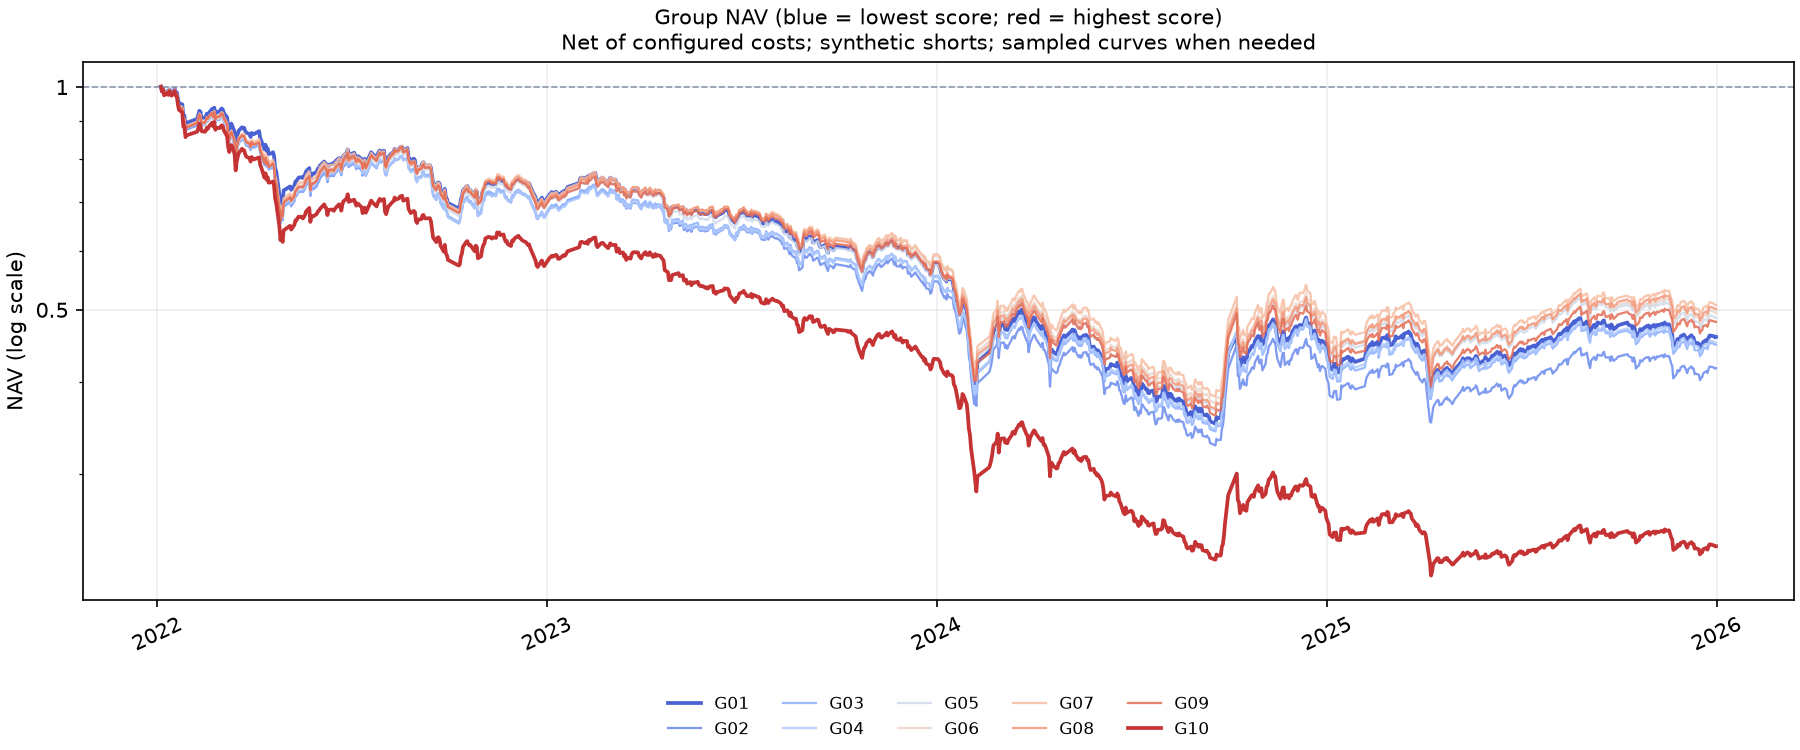
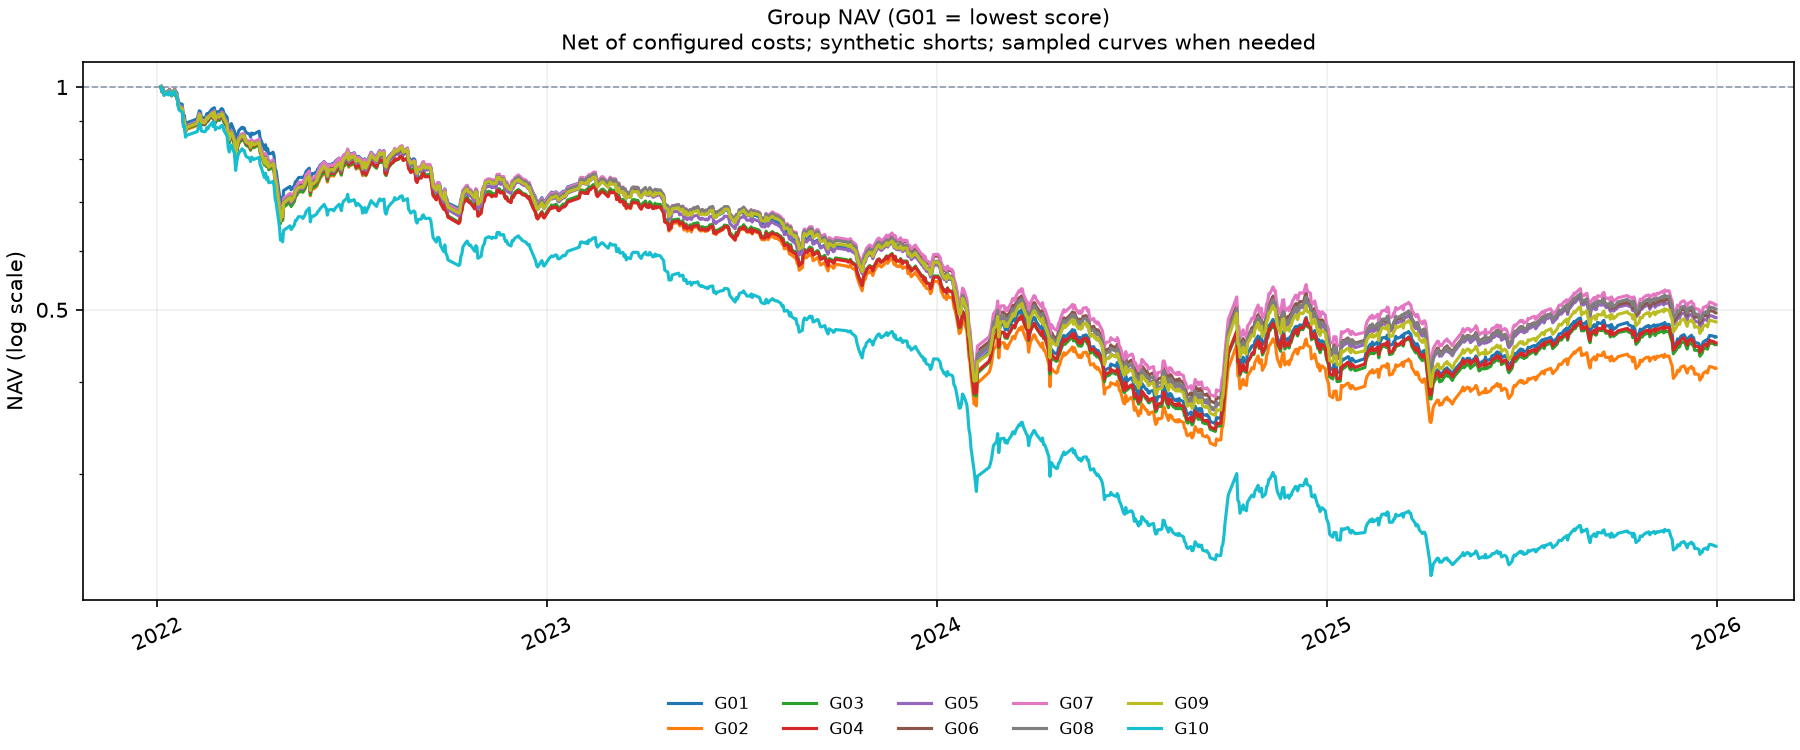
fix: restore original chart colors with logarithmic axes

diff --git a/qsim/report.py b/qsim/report.py
@@ -41,8 +41,6 @@ def plot_results(result,directory):
     curve['date']=pd.to_datetime(curve['date'])
     diag=sampled(result['diagnostics'],limit,columns=['timestamp','ic','rank_ic'])
     caption='Net of configured costs; synthetic shorts; sampled curves when needed'
-    colors=plt.get_cmap('coolwarm')(np.linspace(.05,.95,len(groups)))
-    group_colors=dict(zip(groups.book,colors))
     def nav_axis(ax,values):
         values=np.asarray(values,dtype=float)
         if np.any(np.isfinite(values)&(values<=0)):
@@ -59,7 +57,7 @@ def plot_results(result,directory):
     def group_bars(ax,values):
         values=np.asarray(values,dtype=float)
         ax.set_yscale('symlog',linthresh=.01,linscale=1)
-        bars=ax.bar(np.arange(len(groups)),values,color=colors,width=.72)
+        bars=ax.bar(np.arange(len(groups)),values,width=.72)
         ax.axhline(0,color='#475569',lw=.9)
         ax.set_ylabel('Return (symlog; linear within ±1%)')
         ax.margins(y=.18)
@@ -83,18 +81,17 @@ def plot_results(result,directory):
         fig.savefig(directory/name,dpi=150);plt.close(fig)
     ls=curve.loc[curve.book.eq('LS')]
     def ls_line(ax):
-        ax.plot(ls.date,ls.net,color='#334155',lw=1.6)
+        ax.plot(ls.date,ls.net)
         nav_axis(ax,ls.net)
     save('long_short_nav.png','Long-short NAV (initial = 1)',ls_line)
     initial=float(ls.previous_equity.iloc[0])
     save('long_short_pnl.png','Long-short cumulative PnL (CNY)',lambda ax:ax.plot(ls.date,ls.equity-initial))
     def group_lines(ax):
         for name,part in curve.loc[curve.book.str.startswith('G')].groupby('book'):
-            edge=name in (groups.book.iloc[0],groups.book.iloc[-1])
-            ax.plot(part.date,part.net,label=name,color=group_colors[name],lw=1.8 if edge else 1.1,alpha=1 if edge else .85)
+            ax.plot(part.date,part.net,label=name)
         nav_axis(ax,curve.loc[curve.book.str.startswith('G'),'net'])
         ax.legend(ncol=5,fontsize=8,loc='upper center',bbox_to_anchor=(.5,-.15),frameon=False)
-    save('group_nav.png','Group NAV (blue = lowest score; red = highest score)',group_lines)
+    save('group_nav.png','Group NAV (G01 = lowest score)',group_lines)
     save('group_returns.png','Group cumulative net returns (factor-rank order)',lambda ax:group_bars(ax,groups['return']))
     def excess(ax):
         if 'benchmark_daily' in result:

diff --git a/document/assets/README.md b/document/assets/README.md
@@ -14,8 +14,8 @@
 
 - 配置：[日频](../../configs/readme_daily_5y.toml)、[30分钟](../../configs/readme_30m_l1_4y.toml)。日频2021–2025年固定5日反转；分钟2022–2025年负向买卖一档不平衡度，均历史全A池、10组。
 - 运行ID：`readme_daily_reversal5_candidate_20261030_135734_607571_82bfa4e9`、`readme_30m_l1_4y_20261030_160015_832678_7a6fb02b`；两者均COMPLETE，分别有1／6套StatsEvery时点策略。完整统计与验证见[长区间示例](../FIVE_YEAR_EXAMPLES.md)。
-- `readme_daily_5y_*.png`、`readme_30m_l1_4y_*.png`的分组／多空净值、分组收益／超额四张图于2026-10-30从上述冻结结果重绘：净值为对数轴，收益柱为对称对数轴（±1%内线性），统一按组号渐变配色并标注柱值。原运行目录图片保留；其余三张结果图仍逐字节复制自原运行目录。没有修改净值、收益、组别顺序或裁剪年份。
-- 重绘脚本为`scripts/replot_readme_log.py`，新图和逐值／文件哈希核验保存于`/mnt/nas/qinml_cache/qsim/result/log_plots_20261030_182545_477585/`。
+- `readme_daily_5y_*.png`、`readme_30m_l1_4y_*.png`的分组／多空净值、分组收益／超额四张图于2026-10-30从上述冻结结果重绘：净值为对数轴，收益柱为对称对数轴（±1%内线性），按用户最新要求恢复原默认分类曲线配色及蓝色柱，并标注柱值。原运行目录图片保留；其余三张结果图仍逐字节复制自原运行目录。没有修改净值、收益、组别顺序或裁剪年份。
+- 重绘脚本为`scripts/replot_readme_log.py`，恢复原配色后的新图和逐值／文件哈希核验保存于`/mnt/nas/qinml_cache/qsim/result/log_plots_20261030_183802_883020/`；此前渐变配色版本保留于`log_plots_20261030_182545_477585/`。
 - terminal／terminal_details为同次CLI真实stdout的上／下半摘要排版截图；标题显示可复现的公开配置命令，数值保持原样。原始日志与临时HTML留NAS。
 - 原组合取负后的日频实跑仍亏损，随后固定测试5日反转，保留相同日期／池／费用；当前日频+30.06%，负向分钟−86.67%（原正向−64.01%），展示实际结果。
 - 旧`readme_30m_5y_*.png`及旧价量配置保留为历史材料，当前README不再引用它们。原始运行记录与本次明细见开发交接。

diff --git a/README.md b/README.md
@@ -364,7 +364,7 @@ python -m qsim --config configs/readme_30m_l1_4y.toml
 
 分组曲线和柱状图用于观察分层差异与单调性，不要求结果一定单调。组间持仓可能因容量、停牌、T+1等约束偏离当期目标；组别净值不是无成本的前瞻收益均值。示例仍显式允许未知ST，并使用合成空头。
 
-分组与多空净值使用对数纵轴；分组收益和超额柱状图使用对称对数纵轴（±1%以内为线性），保留负值、零点和实际百分比标签。颜色按因子排名从蓝色G01渐变到红色G10，始终按组号排列，不按回测收益重排。坐标变换不改变收益或组间排序；若净值出现非正值，改用明确标注的对称对数轴保留该记录。
+分组与多空净值使用对数纵轴；分组收益和超额柱状图使用对称对数纵轴（±1%以内为线性），保留负值、零点和实际百分比标签。分组曲线沿用默认分类配色，柱状图沿用蓝色，始终按组号排列，不按回测收益重排。坐标变换不改变收益或组间排序；若净值出现非正值，改用明确标注的对称对数轴保留该记录。
 
 默认 `execution.fee_bps=5.0`，买卖各按实际成交额收取0.05%；卖方附加费、滑点和年化借券费默认均为0。零费用可用于单独的因子研究对照，应明确标注并重新回测；本页主结果保留配置费用。
 

diff --git a/document/FIVE_YEAR_EXAMPLES.md b/document/FIVE_YEAR_EXAMPLES.md
@@ -41,7 +41,7 @@ python -m qsim --config configs/readme_30m_l1_4y.toml
 
 ## 实际结果
 
-净值图采用对数纵轴，分组收益与超额柱状图采用对称对数纵轴（±1%内线性）及真实百分比标签。颜色按G01→G10从蓝到红，组号顺序和原始数值保持不变；这些展示调整没有改变账户或费用。
+净值图采用对数纵轴，分组收益与超额柱状图采用对称对数纵轴（±1%内线性）及真实百分比标签。分组曲线沿用默认分类配色，柱状图沿用蓝色，组号顺序和原始数值保持不变；这些展示调整没有改变账户或费用。
 
 日频为2021-01-04至2025-12-31，共1212日；分钟为2022-01-04至2025-12-31，共969日。固定证券轴均为5939，每天实际可用池随生命周期、状态和信号有效性变化。日频最少有效信号数为4106。
 

diff --git a/document/OUTPUTS.md b/document/OUTPUTS.md
@@ -182,7 +182,7 @@ Python run() 返回的小汇总是 DataFrame，大明细默认是 DiskTable。`.
 |---|---|
 | long_short_nav.png | LS 累计净值，对数纵轴，初始为1，已计配置成本 |
 | long_short_pnl.png | LS 累计金额PnL，单位元，与净值图分开 |
-| group_nav.png | 各分组净值，对数纵轴；蓝色G01最低分、红色最高组最高分 |
+| group_nav.png | 各分组净值，对数纵轴、默认分类配色；G01为最低分组 |
 | group_returns.png | 各组全期净收益柱状图，对称对数纵轴并标注真实百分比 |
 | group_excess_returns.png | `组净值 / 等权基准净值 − 1`，对称对数纵轴；不是两个收益率直接相减 |
 | ic.png | 每个决策时点的 IC 与 Rank IC，观察方向、稳定性及缺失 |
